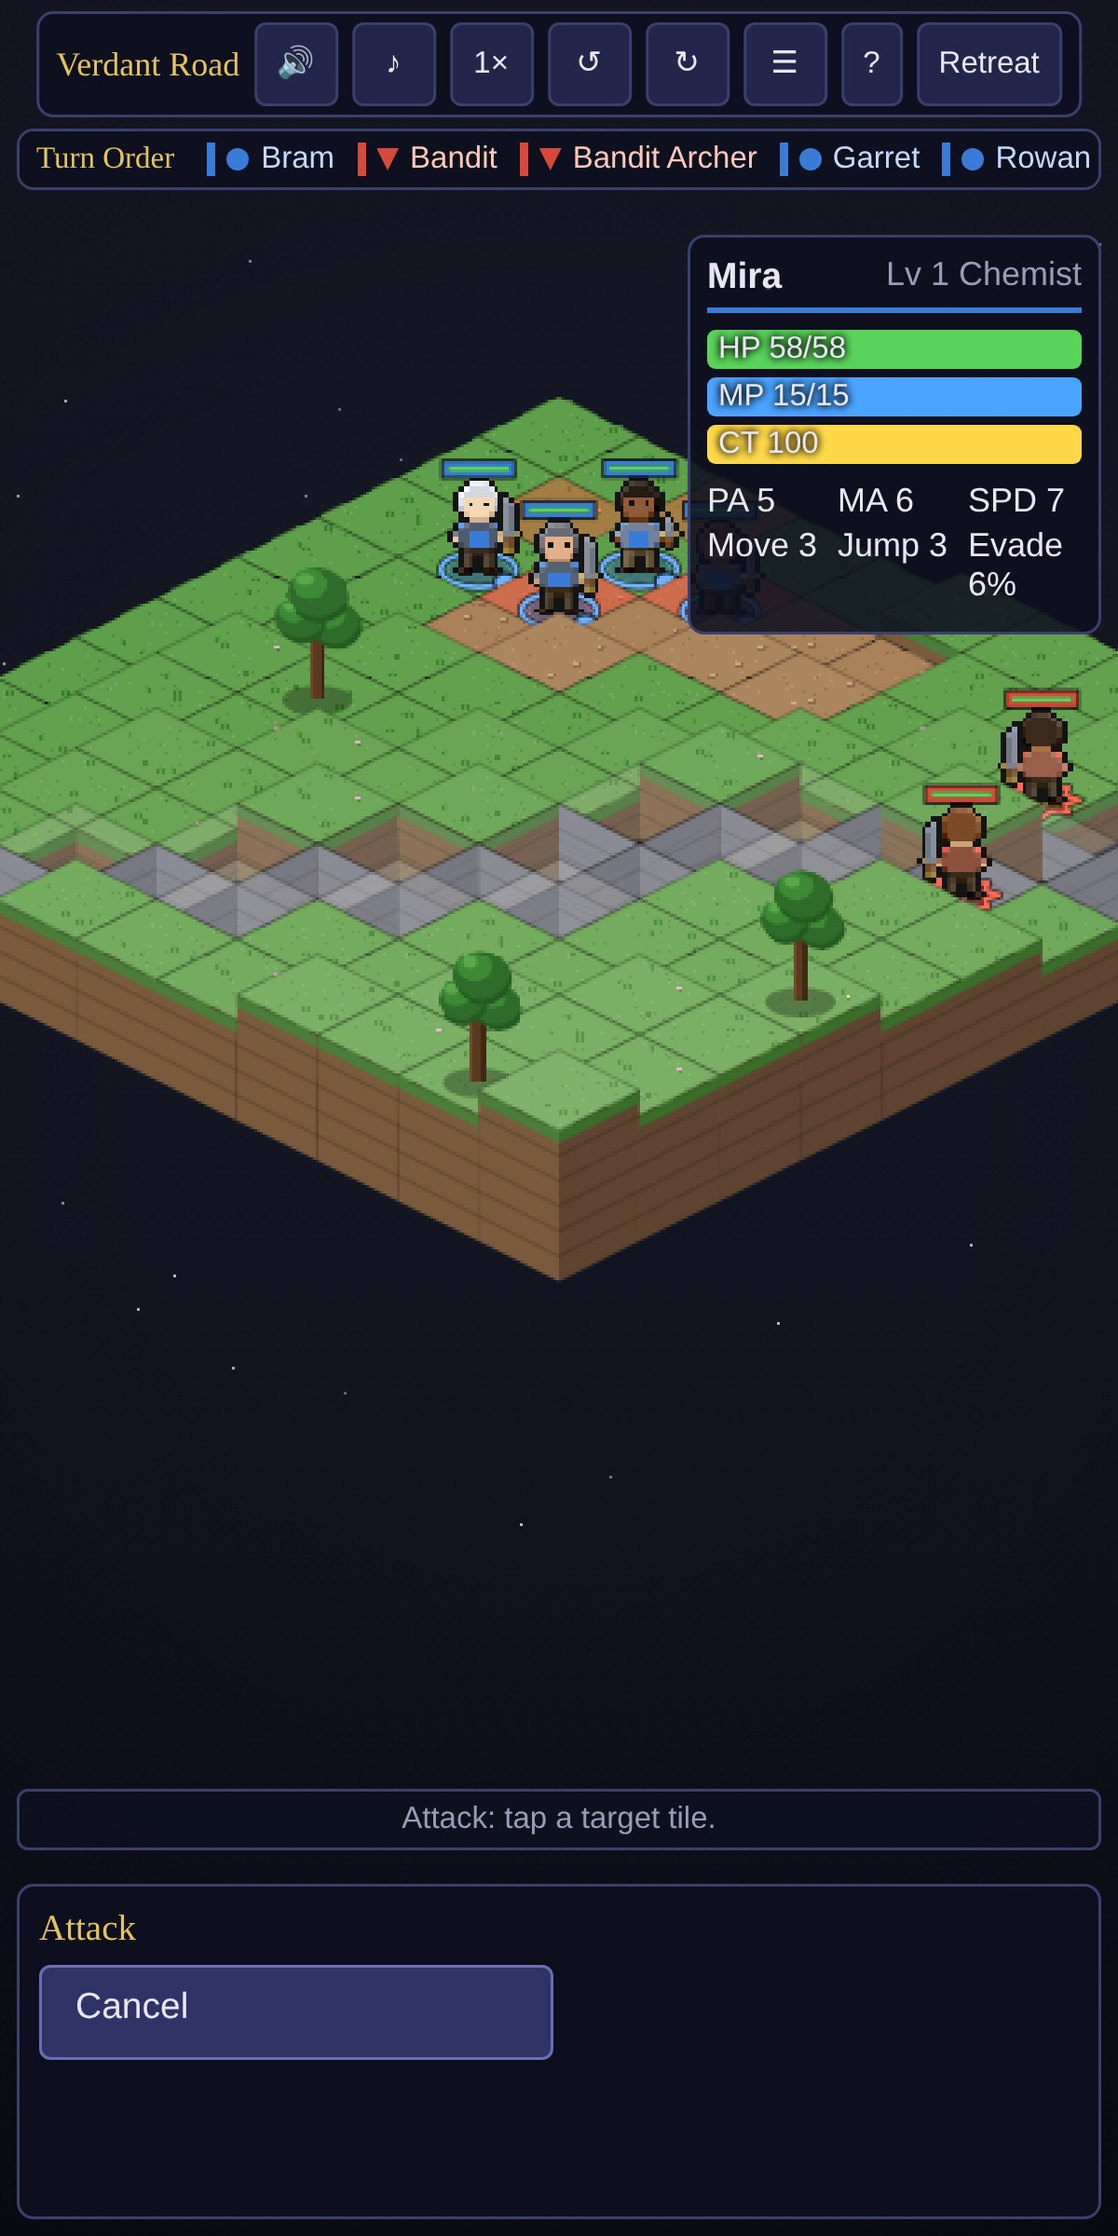
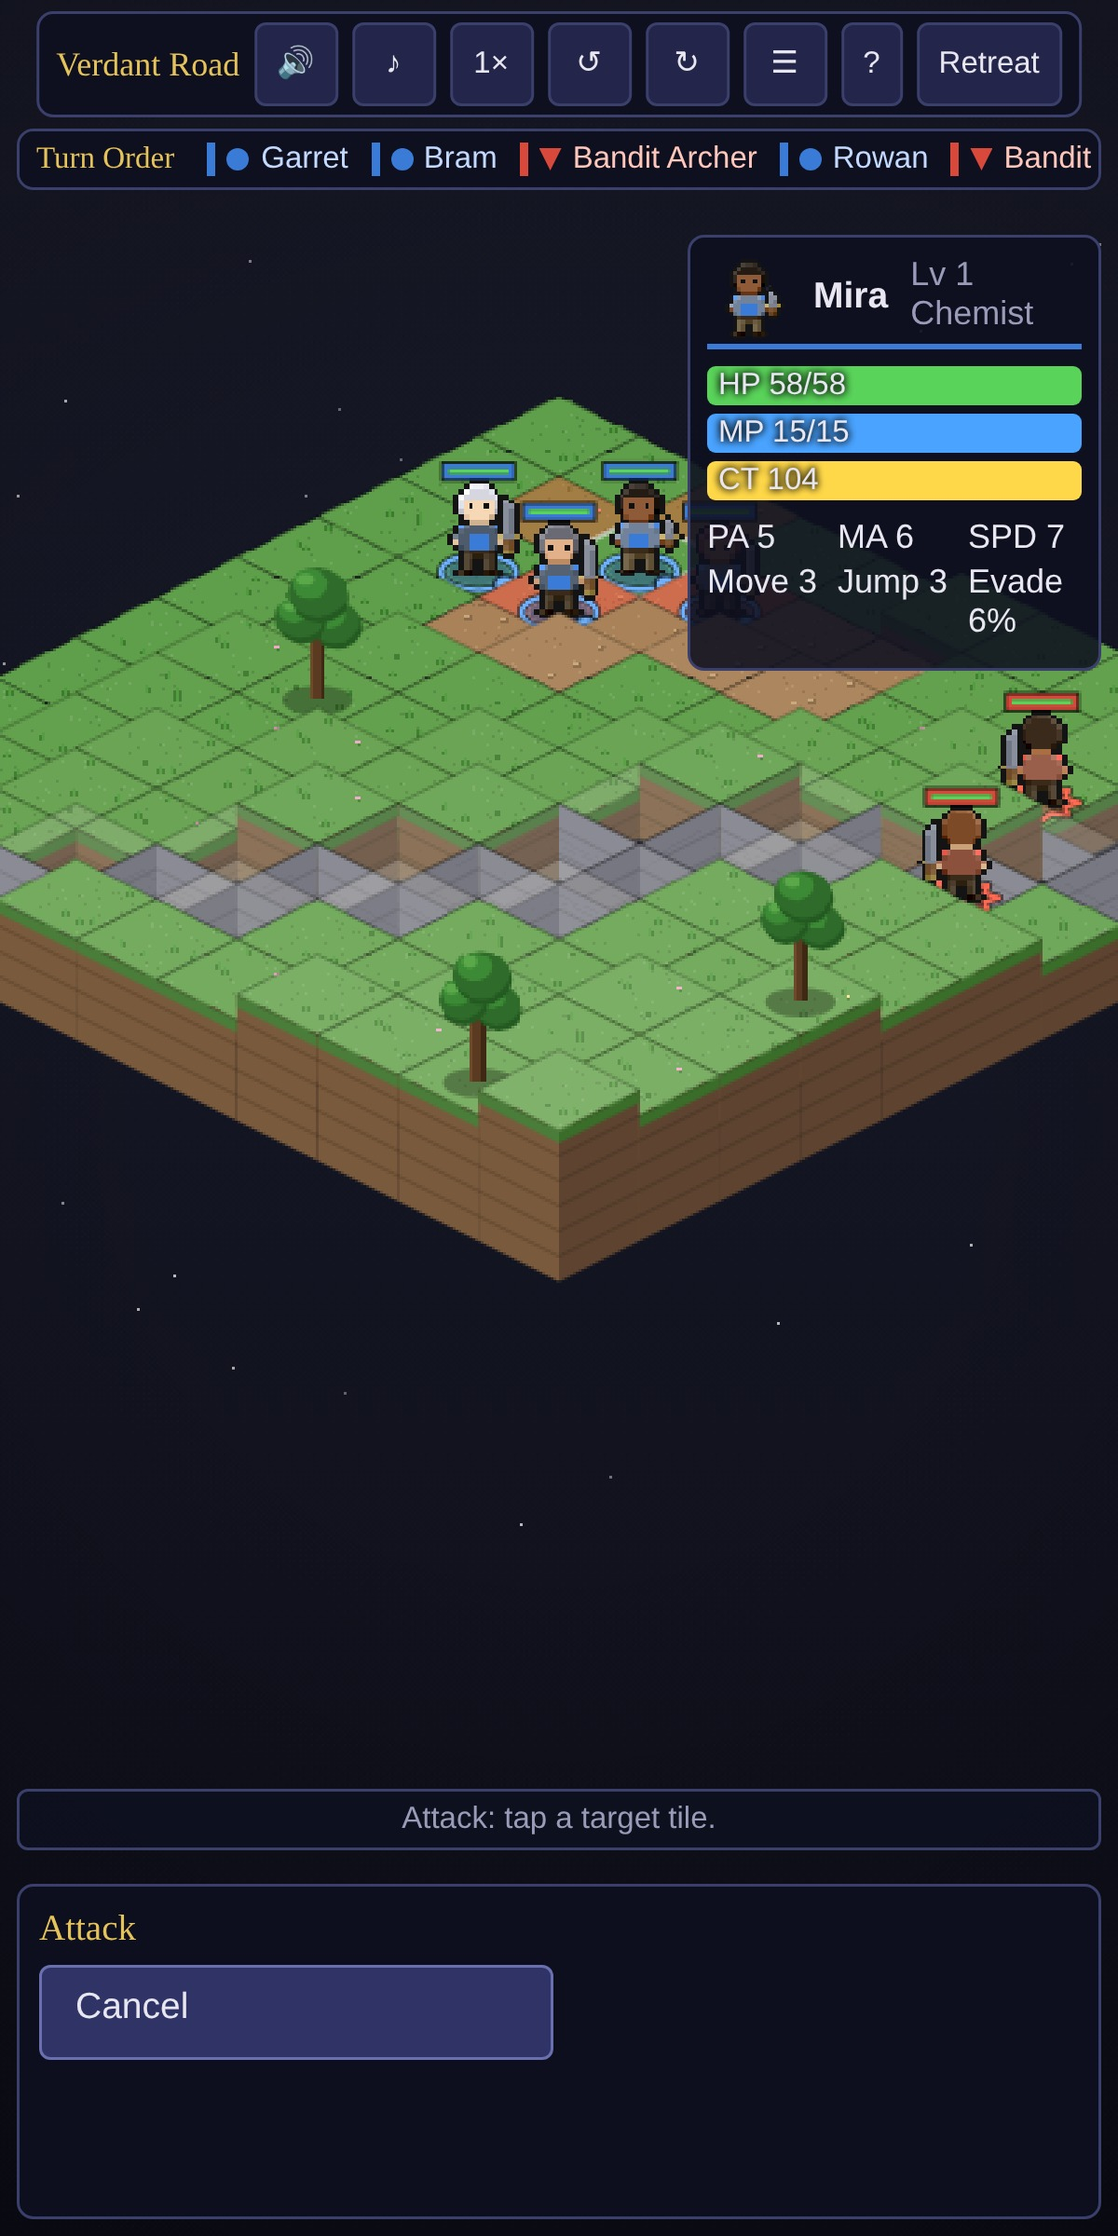
Draw the realm at camp, keep the road going after the war, faces on the card
The camp was a list of buttons. It now opens on a map of the realm: the
seven chapters as stops along a road, each coloured by the mood of the
field it is fought on, the road walked solid and the road ahead dashed,
flags on the chapters won and a question mark on those not yet reached.
The company's own leader stands beside the next stop, and tapping it
marches. The map is drawn once the screen is showing, since a hidden
canvas has no width to fit, and again when the window changes shape.

The campaign used to end in a disabled button. The road keeps going:
numbered trials on a random field, drawn from the campaign's toughest
pools, a level or two above the party and climbing one trial at a time.
A trial won is recorded and the next is harder; a trial lost costs
nothing and is offered again. The count is saved.

The unit card in battle carries the unit's own face beside its name, so
the figure you tapped and the numbers you read are plainly the same
person.

Chapter numbers sit inside their stops and only the next stop is named
above it, because on a phone a number above one stop landed on the name
below its neighbour. Labels are also kept inside the canvas, where a
stop near the edge lost half its name.

Claude-Session: https://claude.ai/code/session_015rBMt2mMzvqJ2PGqK7HNCX

diff --git a/js/game.js b/js/game.js
@@ -4,6 +4,8 @@
 
 const SAVE_KEY = 'elderon-tactics-save';
 const PACE_KEY = 'elderon.pace';
+// Where each chapter sits on the map of the realm, as fractions of the canvas.
+const WORLD_ROUTE = [[0.09, 0.74], [0.22, 0.50], [0.37, 0.68], [0.52, 0.42], [0.66, 0.64], [0.79, 0.34], [0.91, 0.20]];
 const HIRE_NAMES = ['Aldo', 'Bea', 'Corin', 'Dessa', 'Emeric', 'Faye', 'Gil', 'Hollis', 'Ines', 'Joss', 'Kit', 'Lune', 'Marek', 'Nia', 'Orrin', 'Pell'];
 
 const $ = (id) => document.getElementById(id);
@@ -84,14 +86,14 @@ class Game {
   newGame() {
     this.state = {
       party: STARTING_PARTY.map(p => new Unit(Object.assign({ team: 'player' }, p))),
-      gil: 500, chapter: 0, victories: 0, inventory: {}, difficulty: this.pendingDifficulty || 'knight',
+      gil: 500, chapter: 0, victories: 0, trials: 0, inventory: {}, difficulty: this.pendingDifficulty || 'knight',
     };
     this.showWorld();
   }
 
   saveGame() {
     const data = {
-      v: 3, gil: this.state.gil, chapter: this.state.chapter, victories: this.state.victories,
+      v: 3, gil: this.state.gil, chapter: this.state.chapter, victories: this.state.victories, trials: this.state.trials || 0,
       difficulty: this.state.difficulty,
       inventory: this.state.inventory, party: this.state.party.map(u => u.toSave()),
     };
@@ -119,6 +121,7 @@ class Game {
       gil: Number.isFinite(d.gil) ? d.gil : 0,
       chapter: Number.isFinite(d.chapter) ? Math.max(0, Math.min(CAMPAIGN.length, d.chapter)) : 0,
       victories: d.victories || 0,
+      trials: d.trials || 0,
       inventory: {},
       difficulty: DIFFICULTIES[d.difficulty] ? d.difficulty : 'knight',
       party: d.party.map(p => Unit.fromSave(Object.assign({ team: 'player' }, p))),
@@ -226,9 +229,16 @@ class Game {
       $('btn-battle').disabled = false;
       $('btn-battle').textContent = 'March to Battle';
     } else {
-      $('world-next').innerHTML = `<div class="chapter-title">The war is over... for now.</div><div class="chapter-map">Training battles remain available.</div>`;
-      $('btn-battle').disabled = true;
-      $('btn-battle').textContent = 'Campaign complete';
+      // The war is won; the trials are what a company does with peace.
+      const n = (s.trials || 0) + 1, t = this.trialSpec(n);
+      $('world-next').innerHTML = `
+        <div class="chapter-num">Trial ${n}</div>
+        <div class="chapter-title">${t.title}</div>
+        <div class="chapter-map">${MAPS[t.map].name} · ${t.enemies.length} enemies · Lv ${t.level}</div>
+        <div class="chapter-goal">Objective: Defeat every enemy · ${t.gil} gil</div>
+        <div class="chapter-map">The campaign is complete. Each trial is harder than the last, and nothing is lost by failing one.</div>`;
+      $('btn-battle').disabled = false;
+      $('btn-battle').textContent = `Trial ${n}`;
     }
     const diff = DIFFICULTIES[s.difficulty] || DIFFICULTIES.knight;
     $('world-difficulty').innerHTML = Object.entries(DIFFICULTIES).map(([id, d]) =>
@@ -245,6 +255,8 @@ class Game {
     $('hire-info').textContent = `Hire a level ${hireLvl} recruit for 300 gil (party max 8).`;
     $('btn-hire-squire').disabled = $('btn-hire-chemist').disabled = s.gil < 300 || s.party.length >= 8;
     this.showScreen('world');
+    // Drawn once the screen is showing, so the canvas has a width to fit.
+    this.drawWorldMap();
   }
 
   // A word of warning when the party is walking into a chapter underprepared.
@@ -543,9 +555,125 @@ class Game {
   }
 
   // ---- battles ----------------------------------------------------------------------------------
+  /* After the last chapter the road keeps going: numbered trials on a
+     random field, drawn from the campaign's toughest pools and a level or
+     two above the party, climbing one trial at a time. */
+  trialSpec(n) {
+    const s = this.state;
+    const seed = (s.victories * 7919 + n * 104729) >>> 0;
+    const rnd = (k) => ((seed * (k + 1) * 2654435761) >>> 0) / 4294967296;
+    const mapIds = Object.keys(MAPS);
+    const map = mapIds[Math.floor(rnd(1) * mapIds.length)];
+    const pool = TRAINING_POOL[Math.min(TRAINING_POOL.length - 1, 4 + Math.floor(n / 2))];
+    const count = Math.min(7, pool.length + Math.floor((n - 1) / 3));
+    const jobs = []; for (let i = 0; i < count; i++) jobs.push(pool[Math.floor(rnd(10 + i) * pool.length)]);
+    const level = this.avgLevel() + 1 + Math.floor(n / 2);
+    const titles = ['Echoes of the War', 'The Road Not Taken', 'Old Debts', 'A Rumour of Banners', 'Ghosts of Thornwall',
+                    'The Long Watch', 'Hired Steel', 'What the Marsh Kept', 'The Last Company', 'No Crown but Ours'];
+    return { map, jobs, level, enemies: jobs, gil: 400 + 120 * n, title: titles[(n - 1) % titles.length] };
+  }
+
+  async startTrial() {
+    const n = (this.state.trials || 0) + 1, t = this.trialSpec(n);
+    const map = MAPS[t.map];
+    // Spawn on passable ground far from the deploy zone, as training does.
+    const cands = [];
+    for (let y = 0; y < map.h; y++) for (let x = 0; x < map.w; x++) {
+      if ('wtx'.includes(map.terrain[y][x])) continue;
+      const d = Math.min(...map.deploy.map(p => Math.abs(p[0] - x) + Math.abs(p[1] - y)));
+      if (d >= 6) cands.push({ x, y, d });
+    }
+    cands.sort(() => Math.random() - 0.5);
+    const enemies = t.jobs.map((job, i) => ({ job, level: t.level, x: cands[i % cands.length].x, y: cands[i % cands.length].y }));
+    await this.story(`Trial ${n}: ${t.title}`, [`${map.name}. Word has spread of the company that ended the war, and ${enemies.length} have come to test it.`]);
+    const res = await this.runBattle(map, enemies, t.gil, { objective: { type: 'rout' } });
+    if (res === 'aborted') return;
+    if (res === 'victory') { this.state.trials = n; this.state.victories++; }
+    this.saveGame();
+    this.showWorld();
+  }
+
+  /* The realm, drawn: the seven chapters as stops along a road, coloured by
+     the mood of the field each is fought on, with the company's own leader
+     standing where the story has reached. */
+  drawWorldMap() {
+    const cv = $('world-map');
+    if (!cv) return;
+    const cssW = Math.max(280, cv.clientWidth || 800), cssH = cssW / 2, dpr = Math.min(2, window.devicePixelRatio || 1);
+    cv.width = Math.round(cssW * dpr); cv.height = Math.round(cssH * dpr);
+    const c = cv.getContext('2d');
+    c.setTransform(dpr, dpr, 0, 0, 0, 0); c.setTransform(dpr, 0, 0, dpr, 0, 0);
+    const W = cssW, H = cssH;
+    const bg = c.createLinearGradient(0, 0, W, H);
+    bg.addColorStop(0, '#1c1a2e'); bg.addColorStop(1, '#0f0e1a');
+    c.fillStyle = bg; c.fillRect(0, 0, W, H);
+    // Contours, so the parchment is a land and not a panel.
+    c.strokeStyle = 'rgba(255,255,255,0.05)'; c.lineWidth = 1;
+    for (let i = 0; i < 9; i++) {
+      c.beginPath();
+      for (let x = 0; x <= W; x += 16) {
+        const y = H * (0.12 + i * 0.1) + Math.sin(x / 60 + i) * 8 + Math.sin(x / 23 + i * 2) * 3;
+        if (x) c.lineTo(x, y); else c.moveTo(x, y);
+      }
+      c.stroke();
+    }
+    const pts = WORLD_ROUTE.map(([fx, fy]) => ({ x: fx * W, y: fy * H }));
+    // The road, dashed where it has not yet been walked.
+    const reached = Math.min(this.state.chapter, pts.length - 1);
+    const road = (from, to, dashed) => {
+      c.beginPath(); c.setLineDash(dashed ? [5, 6] : []);
+      c.moveTo(pts[from].x, pts[from].y);
+      for (let i = from + 1; i <= to; i++) {
+        const a = pts[i - 1], b = pts[i], mx = (a.x + b.x) / 2, my = (a.y + b.y) / 2 + (i % 2 ? 18 : -18);
+        c.quadraticCurveTo(mx, my, b.x, b.y);
+      }
+      c.stroke(); c.setLineDash([]);
+    };
+    c.lineWidth = 4; c.strokeStyle = 'rgba(0,0,0,0.5)'; road(0, pts.length - 1, false);
+    c.lineWidth = 2; c.strokeStyle = '#8a7a58'; road(0, reached, false);
+    c.strokeStyle = 'rgba(138,122,88,0.5)'; road(reached, pts.length - 1, true);
+    c.font = '11px Georgia, serif'; c.textAlign = 'center';
+    CAMPAIGN.forEach((ch, i) => {
+      const p = pts[i], mood = MOODS[MAPS[ch.map].mood] || MOODS.day;
+      const done = i < this.state.chapter, next = i === this.state.chapter;
+      c.beginPath(); c.arc(p.x, p.y, 9, 0, Math.PI * 2);
+      c.fillStyle = done || next ? mood.sky[0] : '#1a1a26'; c.fill();
+      c.lineWidth = next ? 3 : 1.5;
+      c.strokeStyle = next ? '#ffd84a' : done ? '#c9b98a' : 'rgba(255,255,255,0.18)'; c.stroke();
+      if (next) { c.beginPath(); c.arc(p.x, p.y, 15, 0, Math.PI * 2); c.strokeStyle = 'rgba(255,216,74,0.35)'; c.lineWidth = 1; c.stroke(); }
+      if (done) { c.fillStyle = '#c9b98a'; c.fillRect(p.x - 1, p.y - 14, 2, 10); c.fillStyle = '#d8483b'; c.beginPath(); c.moveTo(p.x + 1, p.y - 14); c.lineTo(p.x + 9, p.y - 11); c.lineTo(p.x + 1, p.y - 8); c.closePath(); c.fill(); }
+      // Labels are kept inside the canvas; a stop near an edge would
+      // otherwise lose half its name.
+      const lx = Math.max(40, Math.min(W - 40, p.x));
+      c.fillStyle = done || next ? '#e6e6f0' : 'rgba(230,230,240,0.35)';
+      const label = done || next ? MAPS[ch.map].name : '?';
+      c.fillText(label, lx, p.y + 24);
+      // The number sits inside its stop; only the next stop is named above,
+      // so numbers and neighbours' names never collide on a narrow screen.
+      if (next) { c.fillStyle = '#ffd84a'; c.fillText('Chapter ' + (i + 1), lx, p.y - 14); }
+      else { c.fillStyle = done ? '#1a1a26' : 'rgba(230,230,240,0.5)'; c.font = 'bold 10px Georgia, serif'; c.fillText(String(i + 1), p.x, p.y + 4); c.font = '11px Georgia, serif'; }
+    });
+    // The company, where the story has reached.
+    const leader = this.state.party.find(u => u.leader) || this.state.party[0];
+    if (leader) {
+      const at = pts[Math.min(this.state.chapter, pts.length - 1)];
+      const face = document.createElement('canvas');
+      paintUnitSprite(face, leader, 1);
+      c.imageSmoothingEnabled = false;
+      // Beside the stop, clear of its label.
+      c.drawImage(face, at.x + 18, at.y - face.height + 6);
+    }
+    cv.onclick = (e) => {
+      const r = cv.getBoundingClientRect();
+      const x = (e.clientX - r.left) * (W / r.width), y = (e.clientY - r.top) * (H / r.height);
+      const next = pts[this.state.chapter];
+      if (next && Math.hypot(x - next.x, y - next.y) < 22) $('btn-battle').click();
+    };
+  }
+
   async startNextChapter() {
     const ch = CAMPAIGN[this.state.chapter];
-    if (!ch) return;
+    if (!ch) return this.startTrial();
     await this.story(ch.title, ch.intro);
     const result = await this.runBattle(MAPS[ch.map], ch.enemies, ch.gil, { objective: ch.objective });
     if (result === 'aborted') return;
@@ -739,7 +867,7 @@ window.addEventListener('DOMContentLoaded', () => {
     game.renderer.centerCamera();
   };
   window.addEventListener('orientationchange', () => setTimeout(reframe, 250));
-  window.addEventListener('resize', () => { clearTimeout(window.__rt); window.__rt = setTimeout(reframe, 200); });
+  window.addEventListener('resize', () => { clearTimeout(window.__rt); window.__rt = setTimeout(() => { reframe(); if (game.screen === 'world') game.drawWorldMap(); }, 200); });
   // A quiet blip on any button keeps the menus feeling responsive.
   document.addEventListener('click', (e) => {
     if (e.target.tagName === 'BUTTON' && !e.target.disabled) audio.sfx('menu');

diff --git a/css/style.css b/css/style.css
@@ -29,6 +29,8 @@ small { color: var(--muted); }
 /* ---------- world ---------- */
 .world-layout { display: flex; gap: 24px; max-width: 1000px; margin: 40px auto; padding: 0 20px; }
 .world-main { flex: 1; }
+/* The realm: where the company has been and where it goes next. */
+#world-map { display: block; width: 100%; aspect-ratio: 2 / 1; border-radius: 6px; border: 1px solid var(--border); background: #14121f; cursor: pointer; margin-bottom: 12px; }
 .world-side { width: 300px; }
 .card { background: var(--panel); border: 1px solid var(--border); border-radius: 6px; padding: 16px; margin-bottom: 16px; }
 .chapter-num { color: var(--muted); text-transform: uppercase; letter-spacing: 2px; font-size: 12px; }
@@ -104,8 +106,10 @@ small { color: var(--muted); }
 .order-row.pending .dot { background: #ffd84a; border-radius: 0; clip-path: none; transform: rotate(45deg); }
 #unit-card { top: 12px; right: 12px; width: 240px; min-height: 0; }
 #unit-card:empty { display: none; }
-.card-head { display: flex; justify-content: space-between; border-bottom: 2px solid #888; padding-bottom: 4px; margin-bottom: 6px; }
+.card-head { display: flex; align-items: center; gap: 8px; border-bottom: 2px solid #888; padding-bottom: 4px; margin-bottom: 6px; }
+.card-head b { flex: 1; }
 .card-head span { color: var(--muted); font-size: 12px; }
+.card-face { width: 30px; height: 32px; image-rendering: pixelated; flex: none; margin: -4px 0; }
 .card-head.player { border-color: var(--player); }
 .card-head.enemy { border-color: var(--enemy); }
 .bar { position: relative; height: 14px; background: #111; border-radius: 3px; margin: 3px 0; overflow: hidden; }

diff --git a/js/ui.js b/js/ui.js
@@ -154,7 +154,7 @@ class BattleUI {
       .map(a => `<span class="aff" style="color:${ELEMENTS[a.e].color}">${ELEMENTS[a.e].name} ${affinityLabel(a.m)}</span>`).join('');
     const mods = Object.entries(u.mods).filter(([, v]) => v).map(([k, v]) => `${k.toUpperCase()} ${v > 0 ? '+' : ''}${v}`).join(', ');
     this.el.card.innerHTML = `
-      <div class="card-head ${u.team}"><b>${u.name}</b><span>Lv ${u.level} ${u.jobData.name}${u.boss ? ' ★' : ''}</span></div>
+      <div class="card-head ${u.team}"><canvas class="card-face"></canvas><b>${u.name}</b><span>Lv ${u.level} ${u.jobData.name}${u.boss ? ' ★' : ''}</span></div>
       <div class="bar hp"><i style="width:${(u.hp / u.maxHp) * 100}%"></i><span>HP ${u.hp}/${u.maxHp}</span></div>
       <div class="bar mp"><i style="width:${u.maxMp ? (u.mp / u.maxMp) * 100 : 0}%"></i><span>MP ${u.mp}/${u.maxMp}</span></div>
       <div class="bar ct"><i style="width:${Math.min(100, u.ct)}%"></i><span>CT ${u.ct}</span></div>
@@ -166,6 +166,9 @@ class BattleUI {
       <div class="statuses">${st}</div>
       ${aff ? `<div class="affinities">${aff}</div>` : ''}
       ${u.alive ? '' : `<div class="ko">KO${u.koCount ? ` — carried off in ${u.koCount}` : ''}</div>`}`;
+    // A face on the card, so the figure you tapped and the numbers you read
+    // are plainly the same person.
+    paintUnitSprite(this.el.card.querySelector('.card-face'), u, 1);
   }
 
   renderTileInfo(t) {

diff --git a/tools/make-store.js b/tools/make-store.js
@@ -142,7 +142,13 @@ async function toMenu(page) {
     await page.waitForSelector('#screen-shop.active');
     await page.waitForTimeout(300);
     await shot(page, 'phone-6-shop.jpg');
-    written.push('phone-1-title.jpg', 'phone-2-deploy.jpg', 'phone-3-move.jpg', 'phone-4-attack.jpg', 'phone-5-formation.jpg', 'phone-6-shop.jpg');
+    // The camp, a few chapters in, so the map shows a road already walked.
+    await page.click('#btn-shop-back');
+    await page.waitForSelector('#screen-world.active');
+    await page.evaluate(() => { game.state.chapter = 3; game.showWorld(); });
+    await page.waitForTimeout(300);
+    await shot(page, 'phone-7-camp.jpg');
+    written.push('phone-1-title.jpg', 'phone-2-deploy.jpg', 'phone-3-move.jpg', 'phone-4-attack.jpg', 'phone-5-formation.jpg', 'phone-6-shop.jpg', 'phone-7-camp.jpg');
     await ctx.close();
   }
 

diff --git a/index.html b/index.html
@@ -35,6 +35,7 @@
   <div class="world-layout">
     <div class="world-main">
       <h2>Camp</h2>
+      <canvas id="world-map" width="800" height="400" title="The road ahead"></canvas>
       <div id="world-next" class="card"></div>
       <div class="world-actions">
         <button id="btn-battle" class="primary">March to Battle</button>

diff --git a/README.md b/README.md
@@ -90,6 +90,12 @@ a browser, or serve the folder with any static file server.
 - **Every field has a mood**: its own sky and light, mist over the ruins,
   embers on the ridge, rain at the gate, fireflies in the marsh, and one of
   three battle themes chosen to match.
+- **A map of the realm** at camp: the seven chapters as stops along a road,
+  coloured by the mood of each field, with your leader standing where the
+  story has reached. Tap the next stop to march.
+- **Trials after the war**: once the campaign is won the road keeps going,
+  with numbered battles that climb a level or two above the party each time.
+  Losing one costs nothing.
 - **Three difficulty settings** that shift the opposition rather than the party,
   so your own numbers always mean the same thing: enemy level, equipment tier
   and the size of the purse. Changeable at any time from camp.

diff --git a/store/LISTING.md b/store/LISTING.md
@@ -71,7 +71,7 @@ from this repository, for instance
 |---|---|---|
 | App icon | `icon-512.png` | 512×512 PNG, under 1 MB |
 | Feature graphic | `feature-graphic-1024x500.jpg` | 1024×500, JPEG or PNG without alpha |
-| Phone screenshots (2–8) | `phone-1-title.jpg` … `phone-6-shop.jpg` | 1200×2400, each side 320–3840 px, long side at most twice the short |
+| Phone screenshots (2–8) | `phone-1-title.jpg` … `phone-7-camp.jpg` | 1200×2400, each side 320–3840 px, long side at most twice the short |
 | 7-inch tablet (up to 8) | `tablet-1-battle.jpg`, `tablet-2-formation.jpg` | 2560×1600 |
 | 10-inch tablet (up to 8) | the same two files | 2560×1600 |
 

diff --git a/android/PLAY_STORE.md b/android/PLAY_STORE.md
@@ -88,7 +88,7 @@ default language English. Then, in the left-hand menu:
    features, health. Category: Game → Strategy.
 2. **Store listing** — paste the name, short and full descriptions from
    `store/LISTING.md`; upload `store/icon-512.png`, the feature graphic and
-   the phone screenshots (two minimum, all six is better). Tablet
+   the phone screenshots (two minimum, all seven is better). Tablet
    screenshots are optional; the two in `store/` fit both tablet slots.
 3. **Play App Signing** — accept it when the first release asks; upload the
    bundle from step 3.
